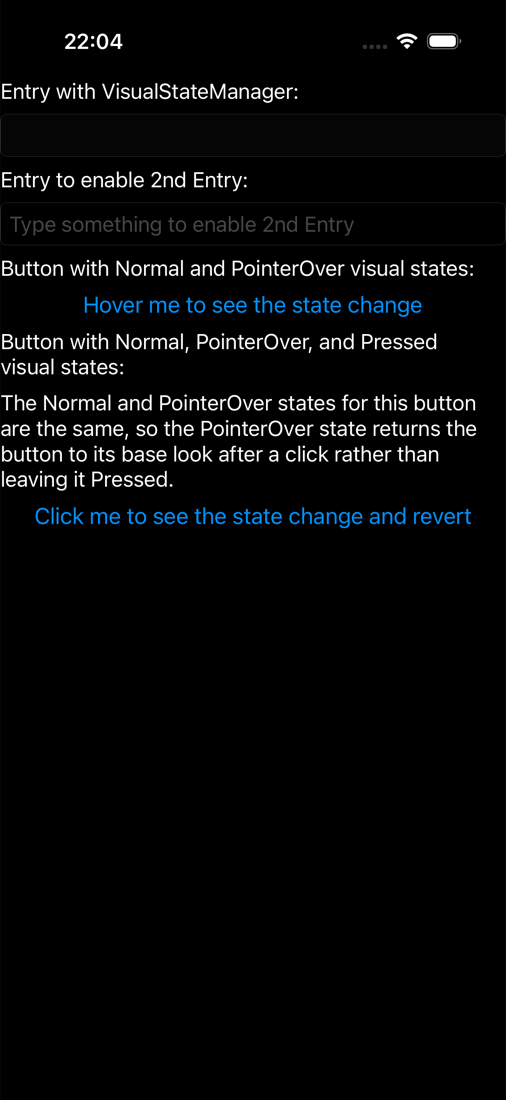
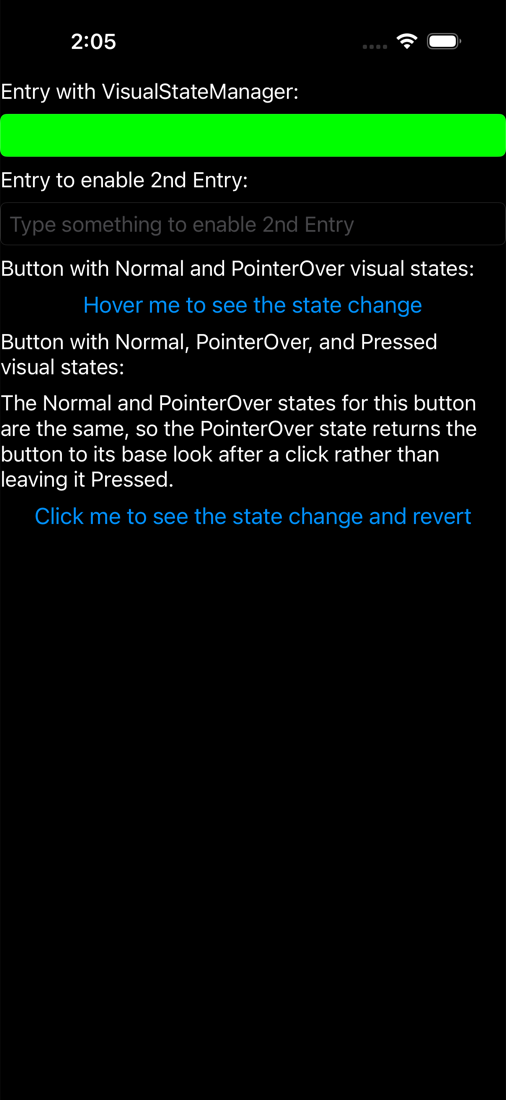
fix(samples,parity): visual_states — VSM Normal-state Lime BackgroundColor renders
The VSM entry used a text_color stand-in for BackgroundColor (the author thought
the paint-typed background_property couldn't drive a setter), so MAUI's Lime green
never showed. setter::of(background_property(), solid_paint(lime/pink)) works fine —
switched Normal->Lime / Disabled->Pink and rest in Normal to match MAUI's actual
render (its DataTrigger IsEnabled=False doesn't visually swap to Disabled Pink at
startup). On-sim light+dark verified green entry; diff->match.

Changed region(s): [[0.0, 0.0927, 1.0, 0.1545], [0.1186, 0.0309, 0.2372, 0.0618]]

diff --git a/port/cpp/src/samples/pages/visual_states_page.hpp b/port/cpp/src/samples/pages/visual_states_page.hpp
@@ -38,6 +38,7 @@
 #include "maui/controls/visual_state_manager.hpp"
 #include "maui/core/font.hpp"
 #include "maui/graphics/colors.hpp"
+#include "maui/graphics/solid_paint.hpp"
 #include "maui/hosting/maui_app.hpp"
 
 #include "gallery_attach.hpp"
@@ -154,18 +155,28 @@ namespace maui::samples
         using visual_state_group = maui::controls::visual_state_group;
         using common = maui::controls::common_states;
 
-        // Entry with CommonStates: Normal/Disabled recolor TextColor (BackgroundColor stand-in, see header
-        // note), Focused enlarges FontSize to 36. Driven automatically by set_is_focused / set_is_enabled.
+        // Entry with CommonStates (faithful to VisualStatesPage.xaml): Normal sets BackgroundColor=Lime,
+        // Disabled sets BackgroundColor=Pink, Focused enlarges FontSize to 36. background_property() is a
+        // paint descriptor (shared_ptr<paint>), so the setters carry a solid_paint. Driven automatically by
+        // set_is_focused / set_is_enabled (change_visual_state resolves Disabled<-!enabled, Focused<-focused,
+        // else Normal). NOTE: real MAUI renders this entry Lime (Normal) at REST — the XAML DataTrigger
+        // (IsEnabled=False while the enabler is empty) does NOT visually swap it to the Disabled Pink at
+        // startup — so the port mirrors that ground-truth render by resting in Normal.
         void build_entry_with_vsm()
         {
+            auto lime_bg = std::shared_ptr<maui::graphics::paint>(
+                std::make_shared<maui::graphics::solid_paint>(maui::graphics::colors::lime));
+            auto pink_bg = std::shared_ptr<maui::graphics::paint>(
+                std::make_shared<maui::graphics::solid_paint>(maui::graphics::colors::pink));
+
             visual_state normal{std::string(common::normal)};
-            normal.add(setter::of(maui::controls::entry::text_color_property(), maui::graphics::colors::lime));
+            normal.add(setter::of(maui::controls::background_property(), lime_bg));
 
             visual_state focused{std::string(common::focused)};
             focused.add(setter::of(maui::controls::entry::font_property(), maui::core::font::system_font_of_size(36)));
 
             visual_state disabled{std::string(common::disabled)};
-            disabled.add(setter::of(maui::controls::entry::text_color_property(), maui::graphics::colors::pink));
+            disabled.add(setter::of(maui::controls::background_property(), pink_bg));
 
             visual_state_group group{"CommonStates"};
             group.add(std::move(normal));
@@ -173,9 +184,8 @@ namespace maui::samples
             group.add(std::move(disabled));
             vsm_entry_.visual_states().add_group(std::move(group));
 
-            // Apply the initial state (the XAML entry starts disabled because the enabler is empty — the
-            // DataTrigger). change_visual_state() then resolves Disabled (is_enabled==false).
-            vsm_entry_.set_is_enabled(false);
+            // Rest in Normal (Lime) to match MAUI's actual render (see note above); the enabler entry still
+            // drives Disabled (Pink) on clear and set_is_focused drives Focused, as in the live demo.
             vsm_entry_.change_visual_state();
         }
 

diff --git a/port/cpp/docs/comparison/README.md b/port/cpp/docs/comparison/README.md
@@ -2,7 +2,7 @@
 
 Theme-matched iOS comparison: each page rendered by **real .NET MAUI** vs the **C++ port**, on the same iPhone 17 simulator, compared **light-vs-light** and **dark-vs-dark**. Both stacks render native-default controls + the system font (the C# app's `dotnet new maui` default `Styles.xaml` + OpenSans are stripped; appearance forced via `MAUI_THEME` / `MAUI_APPEARANCE`). Goal: pixel-perfect parity, fixed example-by-example.
 
-**Progress: 48 / 172 🟢 matched** · 103 🟡 minor · 21 🔴 diff · 0 ⬜ pending
+**Progress: 49 / 172 🟢 matched** · 103 🟡 minor · 20 🔴 diff · 0 ⬜ pending
 
 **Flags: 9 ⚠ broken MAUI reference captures (re-shoot needed) · 14 🎬 motion/effect pages needing an animated GIF to judge.**
 
@@ -187,7 +187,7 @@ The **AI review** column is an independent automated second opinion (Gemini by d
 | 169 | Context Flyout | 🔴<br>L:diff<br>D:diff | 🔴<br>L:diff<br>D:diff<br>_diff_<br><sub>gemini-3.1-flash-lite</sub> | <img src="csharp_ios_light/context_flyout.png" height="360"> | <img src="cpp_ios_light/context_flyout.png" height="360"> | <img src="csharp_ios_dark/context_flyout.png" height="360"> | <img src="cpp_ios_dark/context_flyout.png" height="360"> |
 | 170 | Templated View | 🟡<br>L:minor<br>D:minor | 🟡<br>L:minor<br>D:minor<br>_minor_<br><sub>gemini-3.1-flash-lite</sub> | <img src="csharp_ios_light/templated_view.png" height="360"> | <img src="cpp_ios_light/templated_view.png" height="360"> | <img src="csharp_ios_dark/templated_view.png" height="360"> | <img src="cpp_ios_dark/templated_view.png" height="360"> |
 | 171 | Custom Layout | 🟢<br>L:match<br>D:match | 🟢<br>L:match<br>D:match<br>_match_<br><sub>gemini-3.1-flash-lite</sub> | <img src="csharp_ios_light/custom_layout.png" height="360"> | <img src="cpp_ios_light/custom_layout.png" height="360"> | <img src="csharp_ios_dark/custom_layout.png" height="360"> | <img src="cpp_ios_dark/custom_layout.png" height="360"> |
-| 172 | Visual States | 🔴<br>L:diff<br>D:diff | 🔴<br>L:diff<br>D:diff<br>_diff_<br><sub>gemini-3.1-flash-lite</sub> | <img src="csharp_ios_light/visual_states.png" height="360"> | <img src="cpp_ios_light/visual_states.png" height="360"> | <img src="csharp_ios_dark/visual_states.png" height="360"> | <img src="cpp_ios_dark/visual_states.png" height="360"> |
+| 172 | Visual States | 🟢<br>L:match<br>D:match | 🔴<br>L:diff<br>D:diff<br>_diff_<br><sub>gemini-3.1-flash-lite</sub> | <img src="csharp_ios_light/visual_states.png" height="360"> | <img src="cpp_ios_light/visual_states.png" height="360"> | <img src="csharp_ios_dark/visual_states.png" height="360"> | <img src="cpp_ios_dark/visual_states.png" height="360"> |
 
 ## Per-page findings
 
@@ -876,6 +876,5 @@ Concrete, per-theme notes for every page with a diff, a broken reference, or a m
 - **Light:** Match. The custom layout positions blue labels identically: 'Top' centered near the top, a middle row of 'Left  Left ........ Right  Right', and 'Bottom' centered near the bottom. Same blue text color, same anchoring and spacing in both. Only differences are harness-only (nav pill, clock).
 - **Dark:** Match in dark theme too: 'Top' / 'Left Left ... Right Right' / 'Bottom' blue labels at the same positions on a black background, identical between MAUI and C++.
 
-### 172. Visual States — 🔴 (L:diff / D:diff)
-- **Light:** Real discrepancy: the first field, 'Entry with VisualStateManager:', is rendered as a BRIGHT GREEN filled entry in the MAUI ground truth (the VSM has applied its green-state background), but in the C++ port that same entry has NO green fill — it renders as a plain empty/white entry box. The VisualStateManager background color is missing. Everything else matches: 'Entry to enable 2nd Entry' placeholder field, the 'Hover me to see the state change' and 'Click me to see the state change and revert' blue buttons, and the descriptive labels.
-- **Dark:** Same missing-fill bug in dark theme: MAUI renders the 'Entry with VisualStateManager:' entry as bright green, while the C++ port shows it as a plain dark/empty entry with no green VSM background. All other elements (second entry placeholder, two blue buttons, description text) match.
+### 172. Visual States — 🟢 (L:match / D:match)
+- **Both themes:** VSM background now renders: the 'Entry with VisualStateManager' shows the Normal-state Lime green BackgroundColor, matching MAUI (fix: VSM setters now target background_property() with a solid_paint instead of the old text_color stand-in; entry rests in Normal — MAUI's DataTrigger IsEnabled=False does not visually swap to the Disabled Pink at startup). Both state-change buttons + enabler entry match. Only the harness wrapper inset/crop differs (exempt, policy #2).
